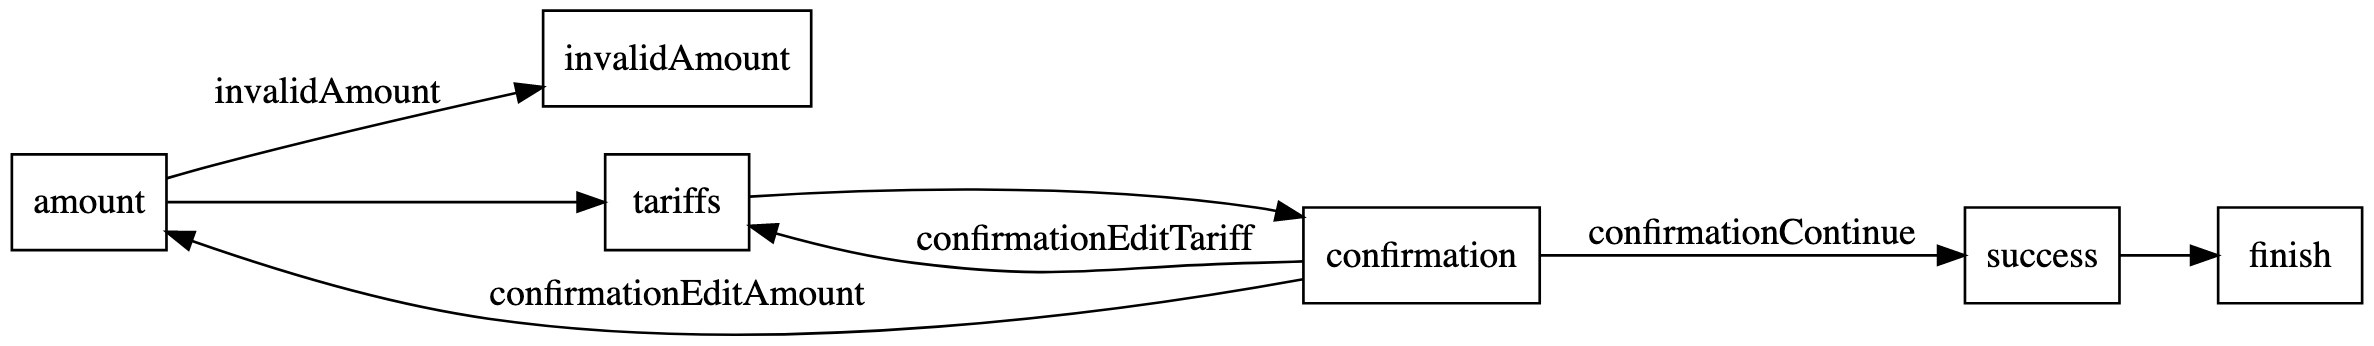
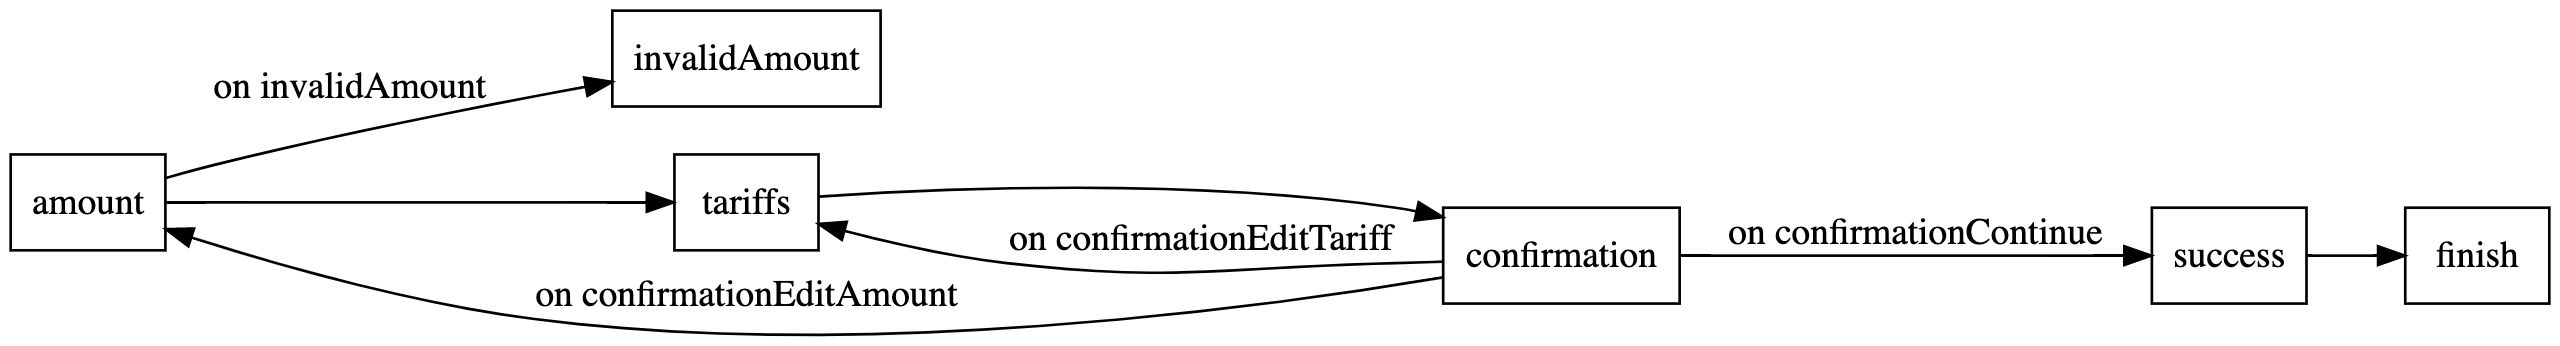
Add any-step handlers & fix event checking

diff --git a/Sources/FlowKit/DSL/DOTBuilder.swift b/Sources/FlowKit/DSL/DOTBuilder.swift
@@ -18,9 +18,10 @@ public final class DOTBuilder {
     public init() { }
 
     public func dsl<Step, Event, StepResult, State>(_ flowDSL: FlowDSL<Step, Event, StepResult, State>) {
+        let stringify: (Step?) -> String = { $0.map { "\($0)" } ?? #""*""# }
         let graph = Graph()
 
-        // build graph and process fowrads/backs
+        // build graph and process forwards/backs
         for step in flowDSL.definition.steps {
             for condition in step.conditions {
                 switch condition.transition {
@@ -28,10 +29,10 @@ public final class DOTBuilder {
                         .backTo(let destination):
 
                     graph
-                        .node(name: "\(step.step)")
+                        .node(name: stringify(step.step))
                         .add(child: graph.node(name: "\(destination)"))
 
-                    edges.append((from: "\(step.step)",
+                    edges.append((from: stringify(step.step),
                                   to: "\(destination)",
                                   label: condition.event.map { "\($0)" } ))
                 default:
@@ -45,10 +46,10 @@ public final class DOTBuilder {
             for condition in step.conditions {
                 guard case .back = condition.transition else { continue }
 
-                for destination in graph.node(name: "\(step.step)").parents {
+                for destination in graph.node(name: stringify(step.step)).parents {
                     guard let destination = destination.node?.name else { continue }
 
-                    edges.append((from: "\(step.step)",
+                    edges.append((from: stringify(step.step),
                                   to: "\(destination)",
                                   label: condition.event.map { "\($0)" } ))
                 }
@@ -71,7 +72,7 @@ public final class DOTBuilder {
 
         for edge in edges {
             if let label = edge.label {
-                lines.append("\t\(edge.from) -> \(edge.to) [label=\"\(label)\"]")
+                lines.append("\t\(edge.from) -> \(edge.to) [label=\"on \(label)\"]")
             } else {
                 lines.append("\t\(edge.from) -> \(edge.to)")
             }

diff --git a/Sources/FlowKit/DSL/DeclarativeTransitionProvider.swift b/Sources/FlowKit/DSL/DeclarativeTransitionProvider.swift
@@ -8,14 +8,25 @@ public final class DeclarativeTransitionProvider<Step: Equatable, Event: Equatab
 
 extension DeclarativeTransitionProvider: TransitionProvider {
     public func transition(from step: Step, with stepResult: StepResult, state: State) -> Promise<Transition<Step>> {
+        return transition(where: { $0 == nil }, stepResult: stepResult, state: state)   // handle "any" steps (*)
+            ?? transition(where: { $0 == step }, stepResult: stepResult, state: state)  // handle exact steps
+            ?? .nothing
+    }
+}
+
+private extension DeclarativeTransitionProvider {
+    func transition(where predicate: (Step?) -> Bool,
+                    stepResult: StepResult,
+                    state: State) -> Promise<Transition<Step>>? {
+
         let emitter = flowDSL.definition.emitter
 
         return flowDSL
             .definition
             .steps
-            .first { $0.step == step }?
+            .first { predicate($0.step) }?
             .conditions
-            .first { $0.event == nil || $0.event == emitter(stepResult, state) }
+            .first { $0.event == emitter(stepResult, state) }
             .map { .promise($0.transition) } ?? .nothing
     }
 }

diff --git a/Sources/FlowKit/DSL/FlowDSLBuilder.swift b/Sources/FlowKit/DSL/FlowDSLBuilder.swift
@@ -9,7 +9,7 @@ public protocol FlowDSLBuilder {
 }
 
 extension FlowDSLBuilder {
-    public static func step(_ step: Step,
+    public static func step(_ step: Step? = nil,
                             @Builders.ConditionBuilder conditions: () -> [On]) -> Step_ {
 
         return Step_(step: step, conditions: conditions())

diff --git a/Sources/FlowKit/DSL/Declarations.swift b/Sources/FlowKit/DSL/Declarations.swift
@@ -5,7 +5,7 @@ public enum Declarations {
     }
 
     public struct Step<Step, Event> {
-        let step: Step
+        let step: Step?
         let conditions: [On<Step, Event>]
     }
 

diff --git a/README.md b/README.md
@@ -226,12 +226,12 @@ strict digraph {
 	rankdir=LR
 	node [shape=box]
 
-	amount -> invalidAmount [label="invalidAmount"]
+	amount -> invalidAmount [label="on invalidAmount"]
 	amount -> tariffs
 	tariffs -> confirmation
-	confirmation -> success [label="confirmationContinue"]
-	confirmation -> amount [label="confirmationEditAmount"]
-	confirmation -> tariffs [label="confirmationEditTariff"]
+	confirmation -> success [label="on confirmationContinue"]
+	confirmation -> amount [label="on confirmationEditAmount"]
+	confirmation -> tariffs [label="on confirmationEditTariff"]
 	success -> finish
 }
 ```
